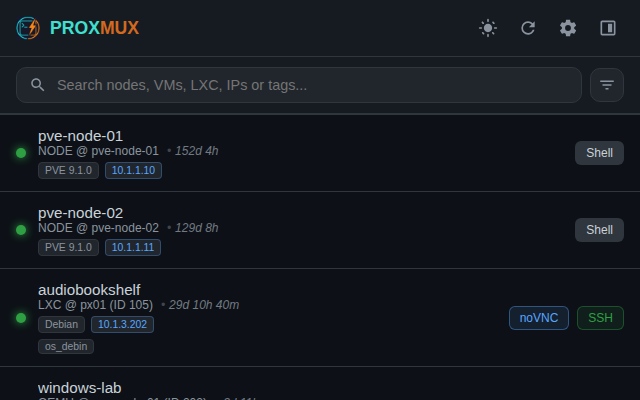
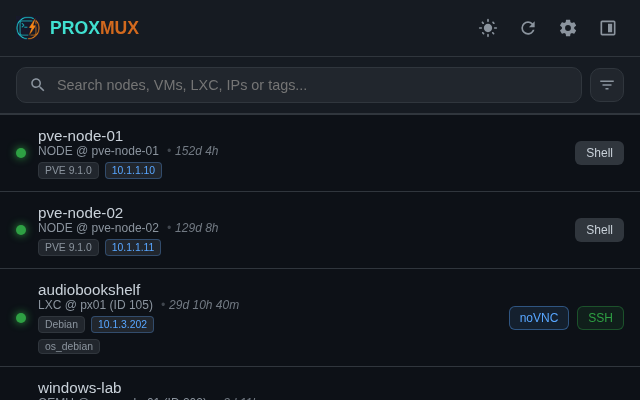
chore: release version 1.1.3 with enhanced search functionality, improved power action status synchronization, and updated screenshot assets

diff --git a/options/options.html b/options/options.html
@@ -104,6 +104,16 @@
                     <h4>Automatic Failover</h4>
                     <p>Once you connect to your first node, the extension automatically discovers all other nodes in your cluster. If your primary node goes down, the extension will attempt to fetch data from the other nodes automatically.</p>
                 </div>
+
+                <div class="help-item">
+                    <h4>Search and Filter Reset</h4>
+                    <p>The search box now includes a clear control and also supports quick reset with the <code>Escape</code> key. Search text, active filters, and expanded item state are restored when reopening the popup for a faster workflow.</p>
+                </div>
+
+                <div class="help-item">
+                    <h4>Power Action Status Behavior</h4>
+                    <p>After start/stop/shutdown/reboot actions, the extension polls status endpoints and keeps a temporary confirmed-state override so list status remains accurate while cluster-wide resources synchronize.</p>
+                </div>
             </div>
         </div>
 
@@ -113,7 +123,7 @@
             <div class="card about-card">
                 <img src="../icons/icon128.png" alt="Logo" class="about-logo">
                 <h2>PROXMUX Manager</h2>
-                <p class="version">Version 1.1.2</p>
+                <p class="version">Version 1.1.3</p>
                 <p>A premium extension for managing your Proxmox VE cluster with ease.</p>
                 <div class="about-footer">
                     <div class="about-links">

diff --git a/docs/architecture.md b/docs/architecture.md
@@ -34,7 +34,12 @@ The extension uses a shared UI for both the browser action popup and the Chrome 
 Uses `chrome.storage.local` to store:
 - API Credentials (URL, Token, Secret).
 - Failover Node URLs (discovered dynamically).
-- User preferences (future).
+- User preferences (theme, display settings).
+
+Uses `localStorage` for popup session UX state:
+- Last search query.
+- Last active type/status filters.
+- Last expanded resource item.
 
 ## 4. Key Flows
 
@@ -52,7 +57,30 @@ Before opening a `novnc` or `shell` URL, the extension:
 3. Performs a fallback `fetch` with `credentials: 'include'` to double-check.
 4. If invalid, displays the **Login Required** overlay.
 
+### 4.3 Power Action Status Synchronization
+Power actions (`start`, `shutdown`, `stop`, `reboot`) are handled with a two-stage strategy:
+1. Send action to Proxmox (`vmAction` / `nodeAction`).
+2. Poll resource status endpoints (`/status/current` or node status) until the target state is confirmed.
+3. Store confirmed state in an in-memory override map (`pendingStatusOverrides`) keyed by resource identity.
+4. During list refresh (`/cluster/resources`), apply overrides to avoid stale cluster cache rollbacks.
+5. Retry refresh with backoff (3s, 6s, 12s) until cluster data catches up and overrides can be cleared.
+
+This prevents transient UI regressions where a resource successfully changed state but briefly reappeared with the previous state.
+
+### 4.4 Search and Filter UX Flow
+The popup top-bar search pipeline is designed for fast iterative filtering:
+1. User input updates `localStorage` and triggers immediate in-memory filtering.
+2. A context-aware clear control is shown only when a query exists.
+3. Search reset works via clear button and `Escape`, then re-renders the full filtered list.
+4. Filter group visibility is controlled by a collapsible toggle with an explicit active/collapsed visual state.
+5. Search, filters, and expanded row state are restored when the popup opens again.
+
 ## 5. Security Model
 - **Token Security**: API Tokens are stored locally in the browser's profile and are never transmitted to any third-party.
 - **Least Privilege**: The extension requests only necessary permissions (`storage`, `tabs`, `downloads`, `sidePanel`, `cookies`).
 - **Isolation**: All API calls are made from the local extension context.
+
+## 6. Quality and Release Verification
+- **E2E Testing**: Playwright test suite validates popup behavior in a controlled mock environment, including search reset and filter toggle interactions.
+- **Visual Asset Pipeline**: Store screenshots are generated from a deterministic mock UI (`store/mock/`) to keep dark/light captures consistent with released UX.
+- **Release Discipline**: Version bumps, docs updates, screenshot refresh, and local test validation are treated as mandatory release gates.

diff --git a/store/ONBOARDING.md b/store/ONBOARDING.md
@@ -39,17 +39,19 @@ Perfect for DevOps engineers and home-server enthusiasts who need a fast, profes
 PROXMUX Manager ist die professionelle Chrome-Erweiterung für Proxmox VE Administratoren. Greifen Sie sofort auf Ihren Virtualisierungs-Cluster zu, um Nodes, VMs und Container zu überwachen, ohne Ihren aktuellen Tab zu verlassen.
 
 Hauptfunktionen:
-- **Interaktive Tags**: Automatische Erkennung und klickbare Filter-Pills für Ihre Cluster-Tags.
-- **Uptime-Anzeige**: Human-readable Uptime (z.B. 2d 5h) für alle laufenden Ressourcen auf einen Blick.
-- **Optimierte Überwachung**: Monitor-Status, OS-Typen und IP-Adressen direkt in der Liste.
-- **Tabbed Settings UI**: Strukturierte Einstellungen in den Bereichen "Allgemein", "Hilfe" und "Über".
+- **Interaktive Tags**: Entdecken und klicken Sie Cluster-weite Tags für eine sofortige kategorische Filterung.
+- **Uptime-Anzeige**: Echtzeit-Uptime in lesbarer Form (z. B. 2d 5h) für alle laufenden Ressourcen.
+- **Verbessertes Monitoring**: Sehen Sie VM/LXC-Status, OS-Typen und IP-Adressen auf einen Blick.
+- **Tabbed Settings UI**: Strukturierte Bereiche „General“, „Help“ und „About“ für bessere Konfiguration.
 - **Intelligente Konsolen**: Unterstützung für noVNC, SPICE (remote-viewer) und Node-Shells.
-- **Modernes Design**: Manuelle Wahl zwischen Dark-, Light-Mode oder Systemeinstellungen.
-- **Hochverfügbarkeit**: Automatische Node-Erkennung und nahtloses Cluster-Failover.
+- **Modernes Design**: Auswahl zwischen Dark, Light oder System-Theme.
+- **Hochverfügbarkeit**: Automatische Node-Erkennung im Cluster und nahtloses Failover.
 - **Sicher**: API-Token werden lokal gespeichert und verlassen niemals Ihren Browser.
 
-Perfekt für DevOps-Engineers und Home-Server-Enthusiasten, die eine schnelle, professionelle und sichere Lösung für ihre Proxmox-Infrastruktur suchen.
+Perfekt für DevOps Engineers und Home-Server-Enthusiasten, die eine schnelle, professionelle und sichere Lösung zur Verwaltung ihrer Proxmox-Infrastruktur benötigen.
 ```
+
+Use English as the canonical release-source text, then keep the German section synchronized for storefront localization.
 
 ---
 
@@ -103,5 +105,6 @@ Perfekt für DevOps-Engineers und Home-Server-Enthusiasten, die eine schnelle, p
 
 ## 5. Visual Assets Checklist
 - **Icon**: 128x128 pixels (provided in `icons/icon128.png`).
-- **Screenshots**: 1280x800 PNG (provided in `store/screenshot_dark.png` and `store/screenshot_light.png`).
+- **Screenshots (Primary Store Set)**: 1280x800 PNG (`store/screenshot_dark.png`, `store/screenshot_light.png`).
+- **Screenshots (Compact Variant)**: 640x400 PNG (`store/screenshot_dark_640x400.png`, `store/screenshot_light_640x400.png`).
 - **Marquee/Tile**: 440x280 pixels.

diff --git a/README.md b/README.md
@@ -27,6 +27,10 @@ A dedicated Chrome Extension for Proxmox VE cluster management, providing instan
 | :---: | :---: |
 | ![Dark Mode](store/screenshot_dark.png) | ![Light Mode](store/screenshot_light.png) |
 
+Additional compact variants for store and docs:
+- `store/screenshot_dark_640x400.png`
+- `store/screenshot_light_640x400.png`
+
 ## Installation
 
 ### From Chrome Web Store (Recommended)
@@ -55,7 +59,14 @@ You can install PROXMUX Manager directly from the [Chrome Web Store](https://chr
 - Proxmox VE 6.x or newer.
 - API Token with appropriate permissions (VM.Console and Sys.Audit for node discovery).
 
-## Version 1.1.2 Release Notes (New!)
+## Version 1.1.3 Release Notes (New!)
+- **Reliable Power State Sync**: Improved status refresh flow after start/stop/shutdown/reboot actions to avoid stale status rollbacks.
+- **Search Reset UX**: Added clear-search support in the popup search field plus keyboard reset with `Escape`.
+- **Top-Bar Layout Fix**: Fixed overlap issues between filter toggle and search clear control.
+- **E2E Coverage Expansion**: Added tests for search clear/reset and filter toggle active/collapsed behavior.
+- **Store Assets Refresh**: Updated screenshot pipeline and generated both `1280x800` and `640x400` dark/light variants.
+
+## Version 1.1.2 Release Notes
 - **Power Features**: Introduced **Interactive Tags** and **Uptime Display** for better cluster oversight.
 - **Settings Refactor**: New **Tabbed UI** for settings with expanded **Help** guides (SPICE, SSH, SSL).
 - **Theme Control**: Manual theme overrides (Dark/Light/Auto).

diff --git a/CHANGELOG.md b/CHANGELOG.md
@@ -5,6 +5,22 @@ All notable changes to this project will be documented in this file.
 The format is based on [Keep a Changelog](https://keepachangelog.com/en/1.0.0/),
 and this project adheres to [Semantic Versioning](https://semver.org/spec/v2.0.0.html).
 
+## [1.1.3] - 2026-03-09
+
+### Added
+- Search reset UX with a clear button in the popup search field.
+- Keyboard reset behavior for search input via `Escape`.
+- Additional store screenshot outputs in `640x400` alongside `1280x800`.
+
+### Changed
+- Refreshed store mock and screenshot generation flow to keep dark/light captures aligned with the current popup UI.
+- Updated E2E coverage for search clear/reset and filter toggle state behavior.
+
+### Fixed
+- Power action status refresh reliability by preserving confirmed target states until cluster resources catch up.
+- Search/filter top-bar layout collisions (filter toggle and clear button overlap).
+- Screenshot consistency between dark and light variants.
+
 ## [1.1.2] - 2026-03-08
 
 ### Added
@@ -72,3 +88,5 @@ and this project adheres to [Semantic Versioning](https://semver.org/spec/v2.0.0
 [1.0.1]: https://github.com/d0dg3r/PROXMUX-Manager/compare/v1.0.0...v1.0.1
 [1.0.0]: https://github.com/d0dg3r/PROXMUX-Manager/compare/v1.0.0-beta.2...v1.0.0
 [1.0.0-beta.2]: https://github.com/d0dg3r/PROXMUX-Manager/releases/tag/v1.0.0-beta.2
+[1.1.3]: https://github.com/d0dg3r/PROXMUX-Manager/compare/v1.1.2...v1.1.3
+[1.1.2]: https://github.com/d0dg3r/PROXMUX-Manager/compare/v1.1.1...v1.1.2

diff --git a/.github/copilot-instructions.md b/.github/copilot-instructions.md
@@ -6,7 +6,7 @@
 
 - **Type:** Chrome Extension (Manifest V3), zero-build project (no transpilation or bundling)
 - **Primary Language:** JavaScript (ES6 modules)
-- **Current Version:** 1.1.1
+- **Current Version:** 1.1.3
 - **License:** MIT
 
 ---
@@ -206,7 +206,7 @@ Stores credentials in `chrome.storage.local`:
 
 ### Screenshots (`screenshots.yml`)
 
-- Generates Chrome Web Store screenshots (1280×800) from the mock environment.
+- Generates Chrome Web Store screenshots from the mock environment (`1280x800` and `640x400` variants).
 
 ---
 
